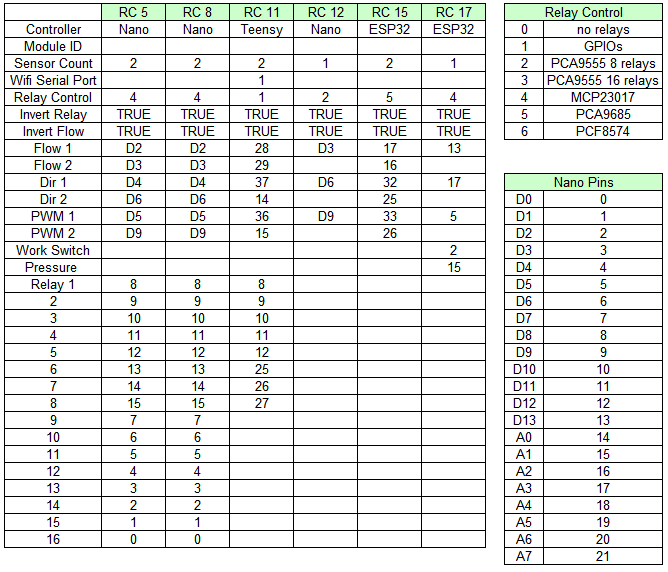
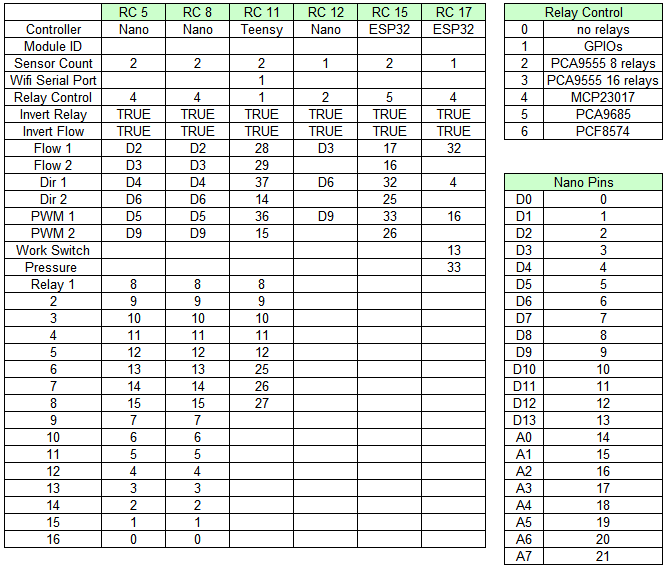
update default pins

Changed region(s): [[0.0, 0.0, 1.0, 1.0]]

diff --git a/RateAppSource/RateController/frmModuleConfig.cs b/RateAppSource/RateController/frmModuleConfig.cs
@@ -627,13 +627,13 @@ namespace RateController
                     ckFlowOn.Checked = true;
                     ckMomentary.Checked = false;
 
-                    tbFlow1.Text = "13";
+                    tbFlow1.Text = "32";
                     tbFlow2.Text = "-";
-                    tbDir1.Text = "17";
+                    tbDir1.Text = "4";
                     tbDir2.Text = "-";
-                    tbPWM1.Text = "5";
+                    tbPWM1.Text = "16";
                     tbPWM2.Text = "-";
-                    tbWrk.Text = "2";
+                    tbWrk.Text = "13";
 
                     tbRelay1.Text = "-";
                     tbRelay2.Text = "-";
@@ -657,7 +657,7 @@ namespace RateController
                     tbPassword.Text = "111222333";
                     ckClient.Checked = false;
                     rb3Wire.Checked = true;
-                    tbPressure.Text = "15";
+                    tbPressure.Text = "33";
                     break;
 
                 default:
